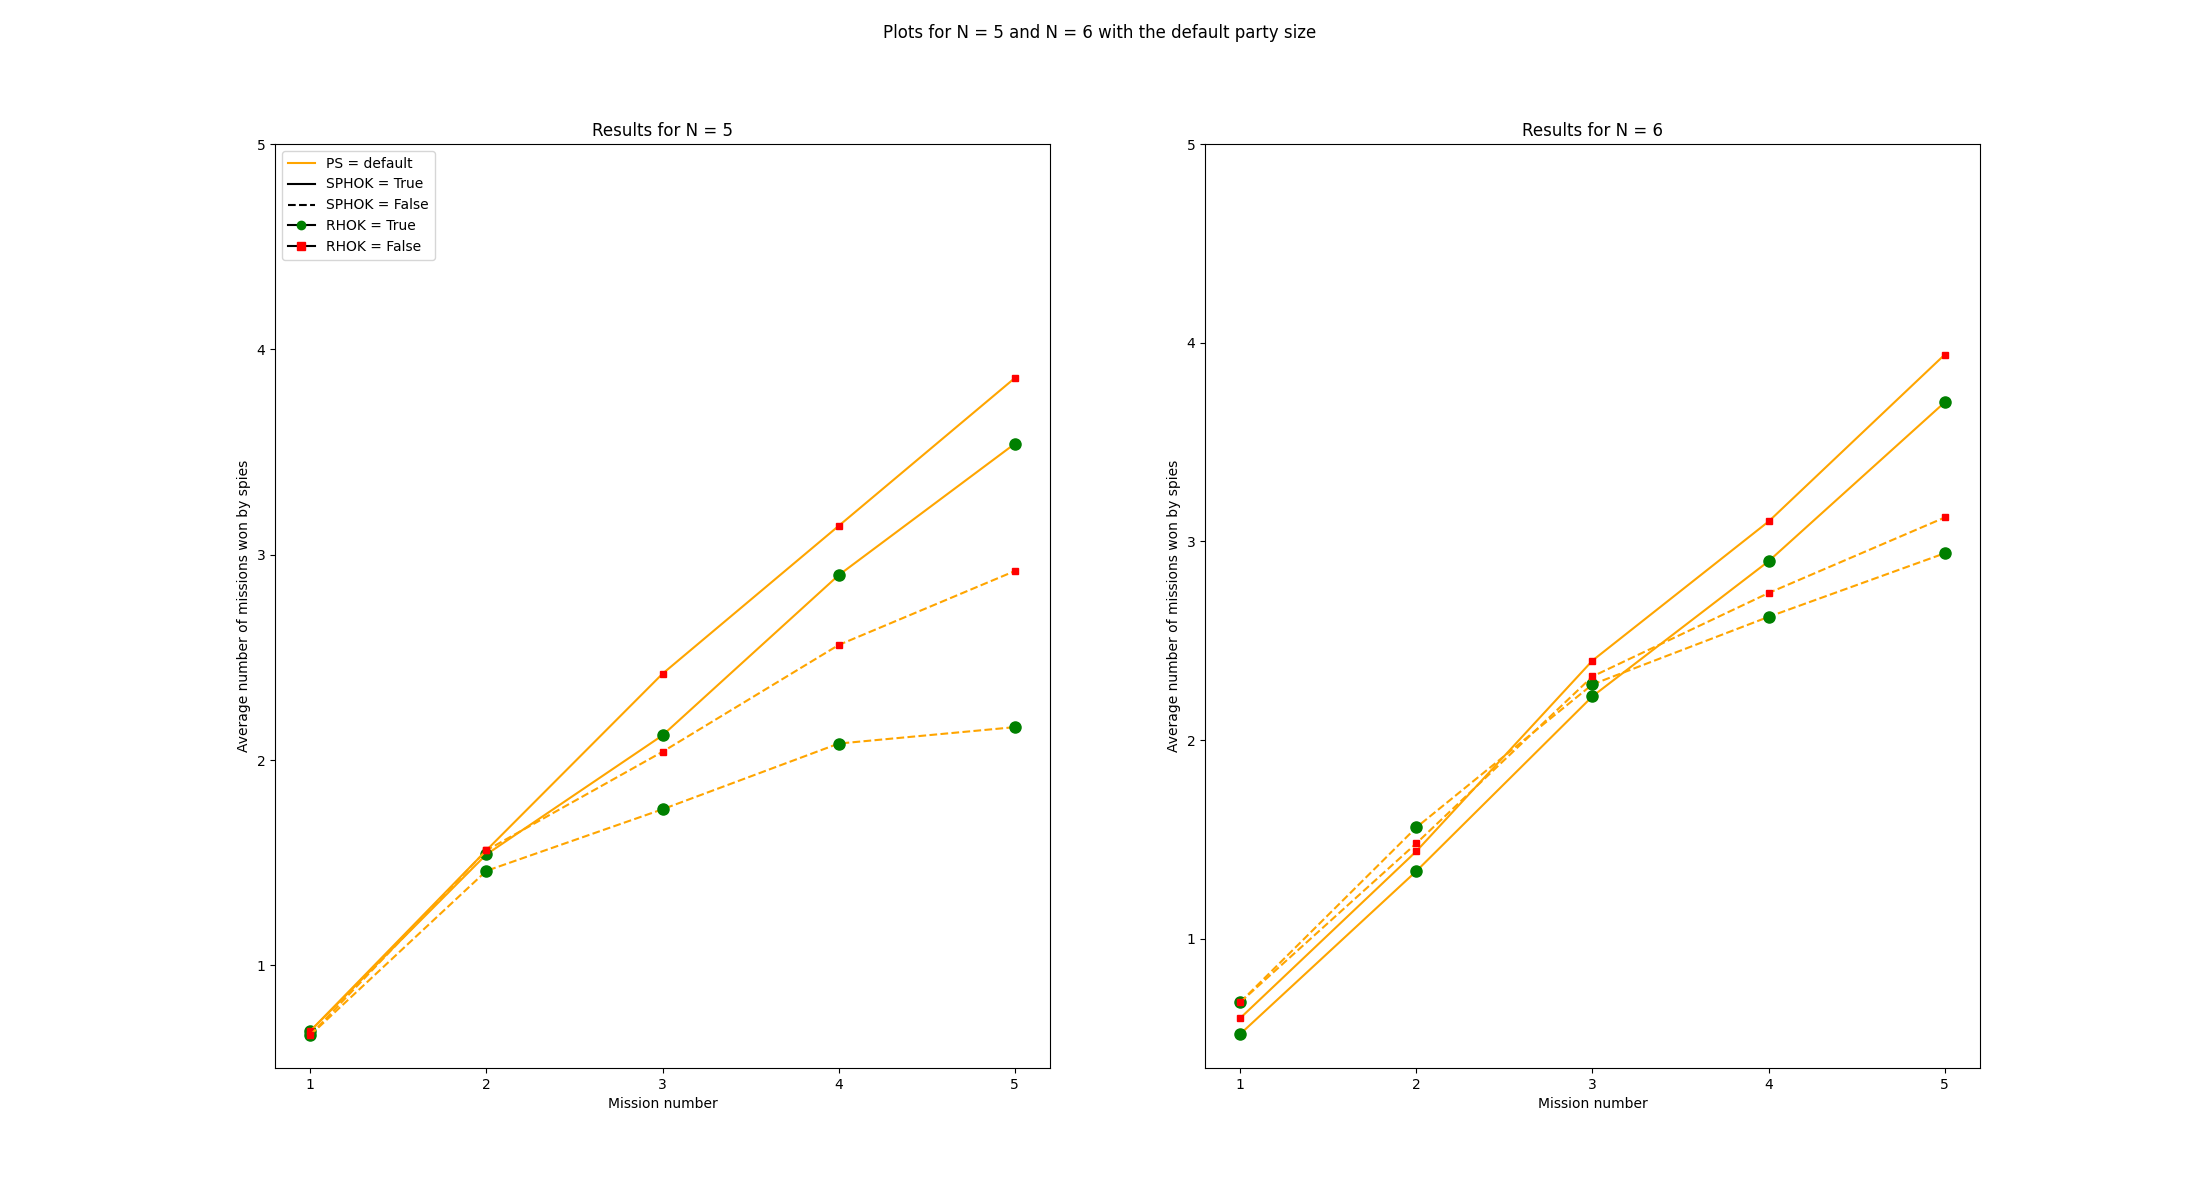
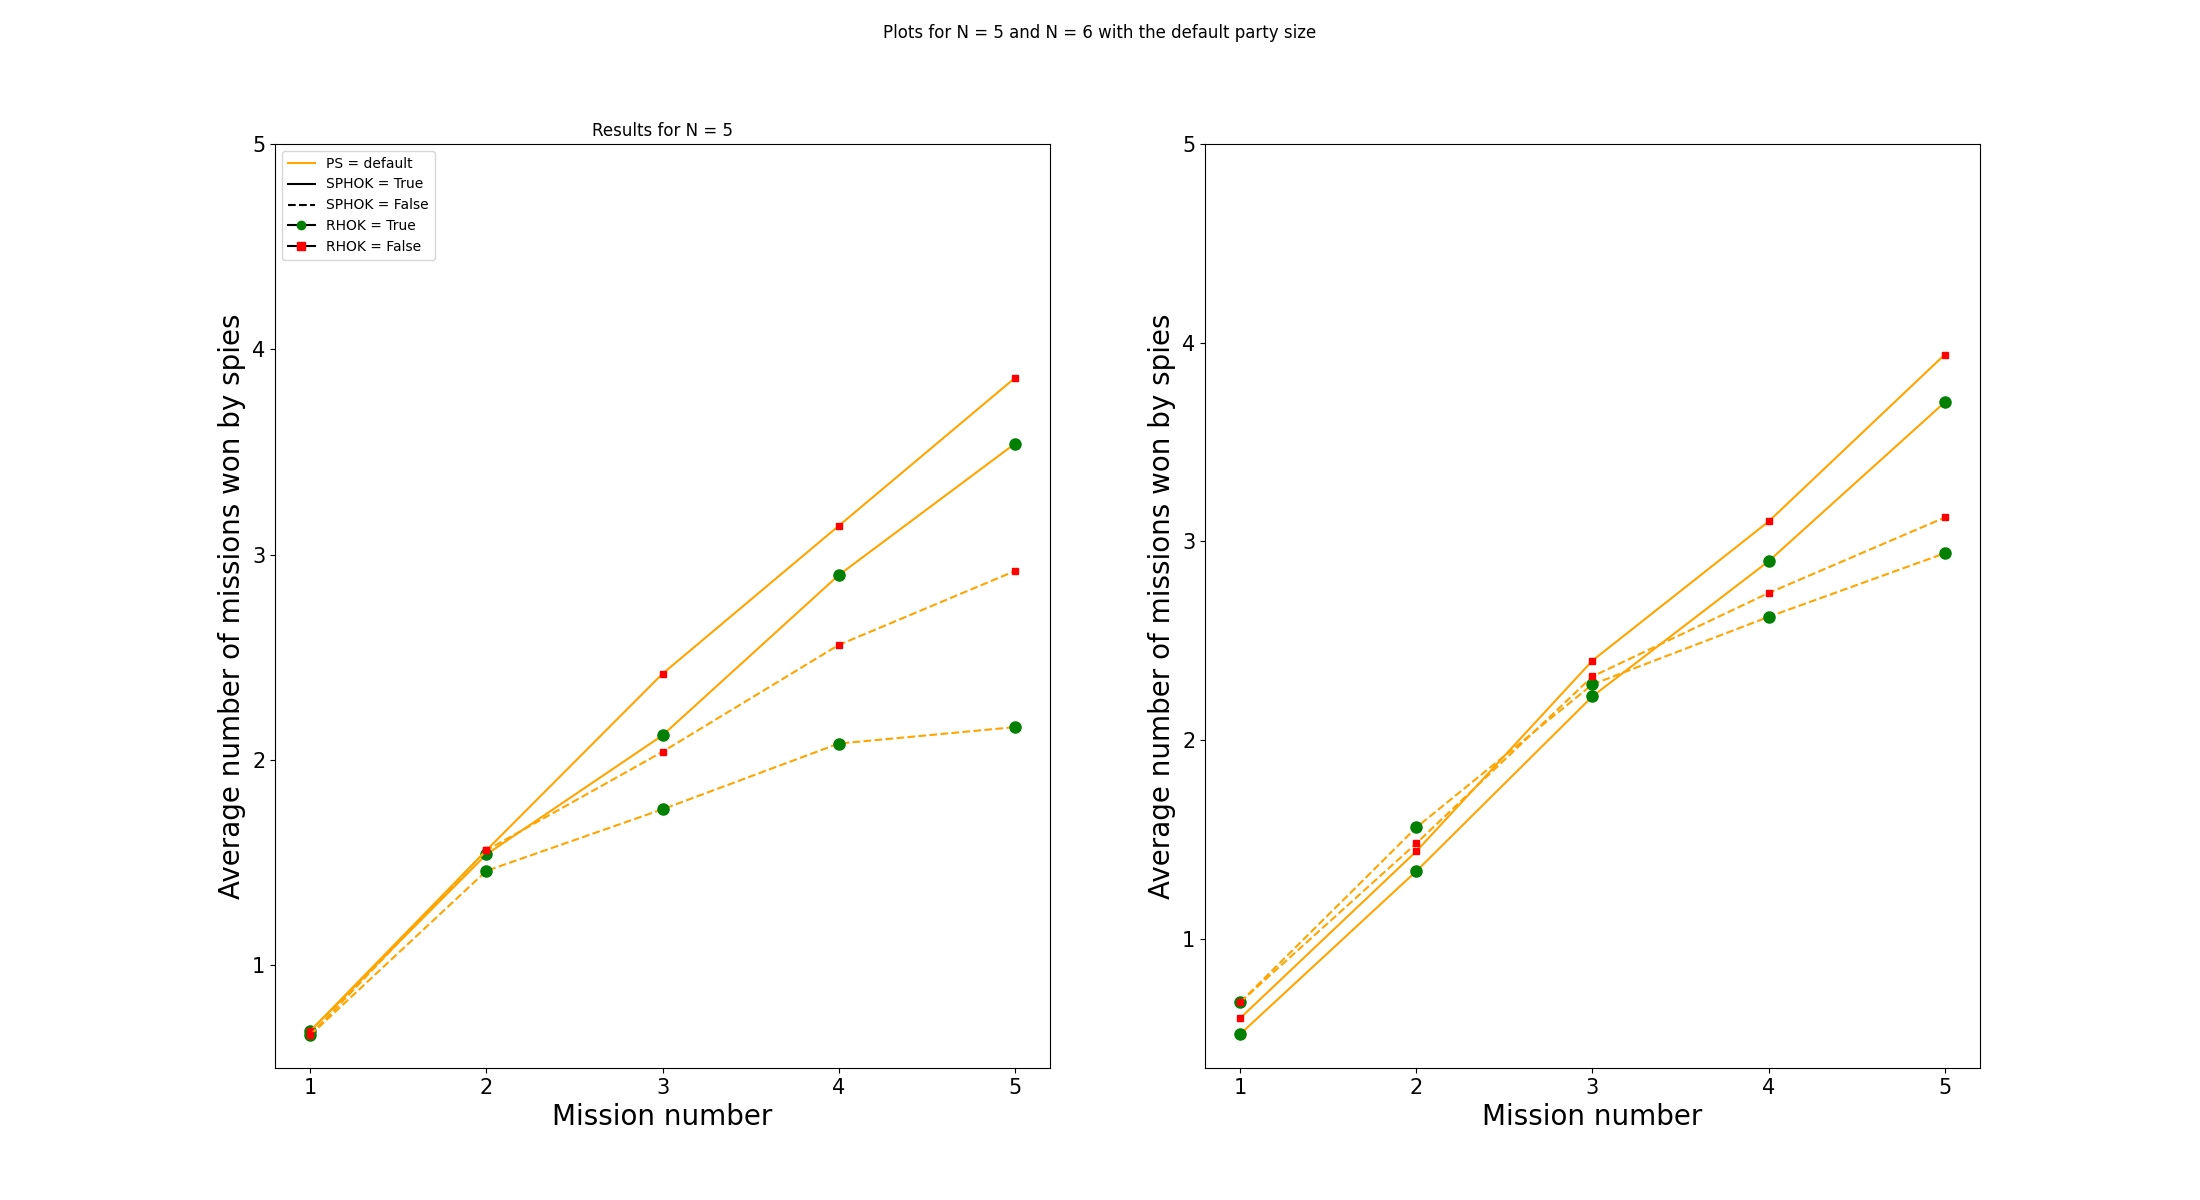
Change font size graphs

diff --git a/results/graph.py b/results/graph.py
@@ -138,25 +138,18 @@ def make_subcharts_5(df):
             axs[2].plot(x, l_avg[i], linestyle=line, color='orange',
                         marker=mark, mec=markc, mfc=markc, ms=marks, zorder=z)
 
-    axs[0].set_title("PS = 2")
-    axs[0].legend(handles=legend_elements, loc='upper left')
-    axs[1].set_title("PS = 3")
-    axs[2].set_title("PS = default")
-    fig.suptitle("Main plot for N=5 divided into party size-plots")
-    axs[0].set_xlabel("Mission number")
-    axs[1].set_xlabel("Mission number")
-    axs[2].set_xlabel("Mission number")
-    axs[0].set_ylabel('Average number of missions won by spies')
-    axs[1].set_ylabel('Average number of missions won by spies')
-    axs[2].set_ylabel('Average number of missions won by spies')
-    axs[0].set_yticks(x)
-    axs[1].set_yticks(x)
-    axs[2].set_yticks(x)
-    axs[0].set_xticks(x)
-    axs[1].set_xticks(x)
-    axs[2].set_xticks(x)
-    plt.xticks(x)
-    plt.yticks(x)
+    axs[0].set_title("PS = 2", fontsize=20)
+    axs[0].legend(handles=legend_elements, loc='upper left', fontsize=20)
+    axs[1].set_title("PS = 3", fontsize=20)
+    axs[2].set_title("PS = default", fontsize=20)
+    fig.suptitle("Main plot for N=5 divided into party size-plots", fontsize=20)
+    for i in range(3):
+        axs[i].set_xlabel("Mission number", fontsize=20)
+        axs[i].set_ylabel('Average number of missions won by spies', fontsize=20)
+        axs[i].set_yticks(x)
+        axs[i].set_xticks(x)
+        axs[i].xaxis.set_tick_params(labelsize=15)
+        axs[i].yaxis.set_tick_params(labelsize=15)
     plt.savefig('figure_subn5.png')
     plt.show()
 
@@ -191,16 +184,15 @@ def make_line_chart_6(n5, n6):
         axs[1].plot(x, l6_avg[i], linestyle=line, color='orange',
                     marker=mark, mec=markc, mfc=markc, ms=marks, zorder=z)
     axs[0].legend(handles=legend_elements, loc='upper left')
+
     axs[0].set_title('Results for N = 5')
-    axs[0].set_xlabel('Mission number')
-    axs[0].set_ylabel('Average number of missions won by spies')
-    axs[0].set_xticks(x)
-    axs[0].set_yticks(x)
-    axs[1].set_title('Results for N = 6')
-    axs[1].set_xlabel('Mission number')
-    axs[1].set_ylabel('Average number of missions won by spies')
-    axs[1].set_xticks(x)
-    axs[1].set_yticks(x)
+    for i in range(2):
+        axs[i].set_xlabel("Mission number", fontsize=20)
+        axs[i].set_ylabel('Average number of missions won by spies', fontsize=20)
+        axs[i].set_yticks(x)
+        axs[i].set_xticks(x)
+        axs[i].xaxis.set_tick_params(labelsize=15)
+        axs[i].yaxis.set_tick_params(labelsize=15)
     fig.suptitle("Plots for N = 5 and N = 6 with the default party size")
     plt.savefig('figure_n6.png')
     plt.show()
